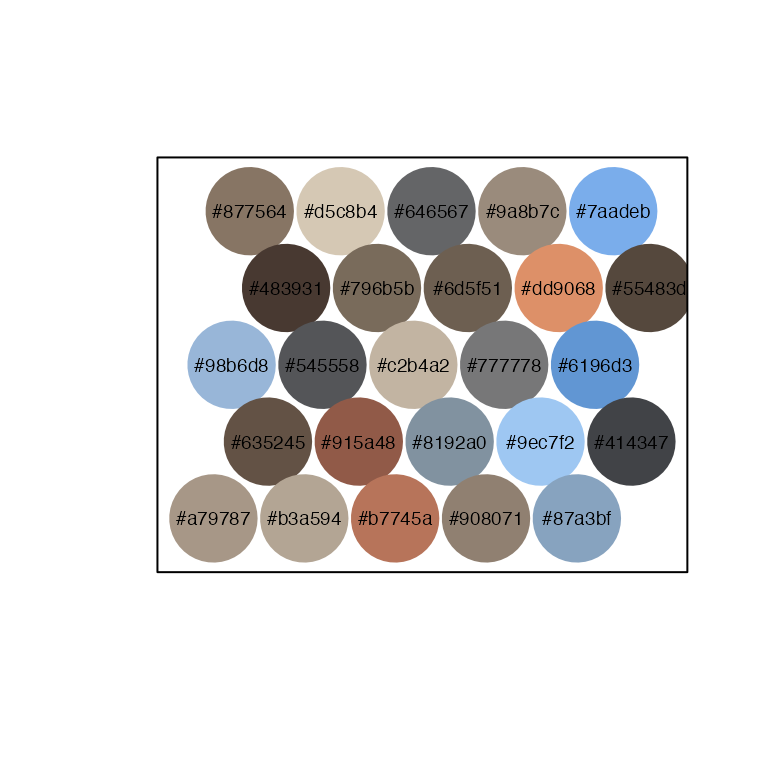
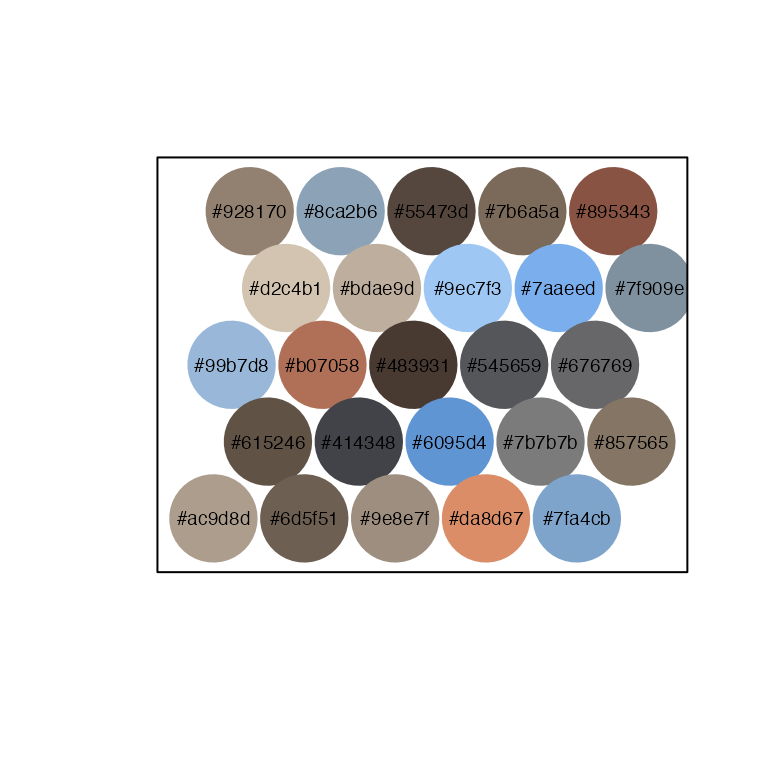
Rebuilt `pkgdown` site

Changed region(s): [[0.2188, 0.2188, 0.9062, 0.75], [0.3125, 0.5625, 0.3438, 0.5938], [0.2812, 0.4688, 0.3125, 0.5]]

diff --git a/docs/articles/lterpalettefinder.html b/docs/articles/lterpalettefinder.html
@@ -118,10 +118,10 @@ identified by k-means clustering on the red, green, blue bands extracted
 from the image) stored as hexadecimal codes.</p>
 <div class="sourceCode" id="cb3"><pre class="downlit sourceCode r">
 <code class="sourceCode R"><span><span class="va">fire_palette</span></span>
-<span><span class="co">#&gt;  [1] "#a79787" "#98b6d8" "#877564" "#635245" "#483931" "#b3a594" "#545558"</span></span>
-<span><span class="co">#&gt;  [8] "#d5c8b4" "#915a48" "#796b5b" "#b7745a" "#c2b4a2" "#646567" "#8192a0"</span></span>
-<span><span class="co">#&gt; [15] "#6d5f51" "#908071" "#777778" "#9a8b7c" "#9ec7f2" "#dd9068" "#87a3bf"</span></span>
-<span><span class="co">#&gt; [22] "#6196d3" "#7aadeb" "#414347" "#55483d"</span></span></code></pre></div>
+<span><span class="co">#&gt;  [1] "#ac9d8d" "#99b7d8" "#928170" "#615246" "#d2c4b1" "#6d5f51" "#b07058"</span></span>
+<span><span class="co">#&gt;  [8] "#8ca2b6" "#414348" "#bdae9d" "#9e8e7f" "#483931" "#55473d" "#6095d4"</span></span>
+<span><span class="co">#&gt; [15] "#9ec7f3" "#da8d67" "#545659" "#7b6a5a" "#7b7b7b" "#7aaeed" "#7fa4cb"</span></span>
+<span><span class="co">#&gt; [22] "#676769" "#895343" "#857565" "#7f909e"</span></span></code></pre></div>
 </div>
 <div class="section level3">
 <h3 id="viewing-the-palette">Viewing the Palette<a class="anchor" aria-label="anchor" href="#viewing-the-palette"></a>
